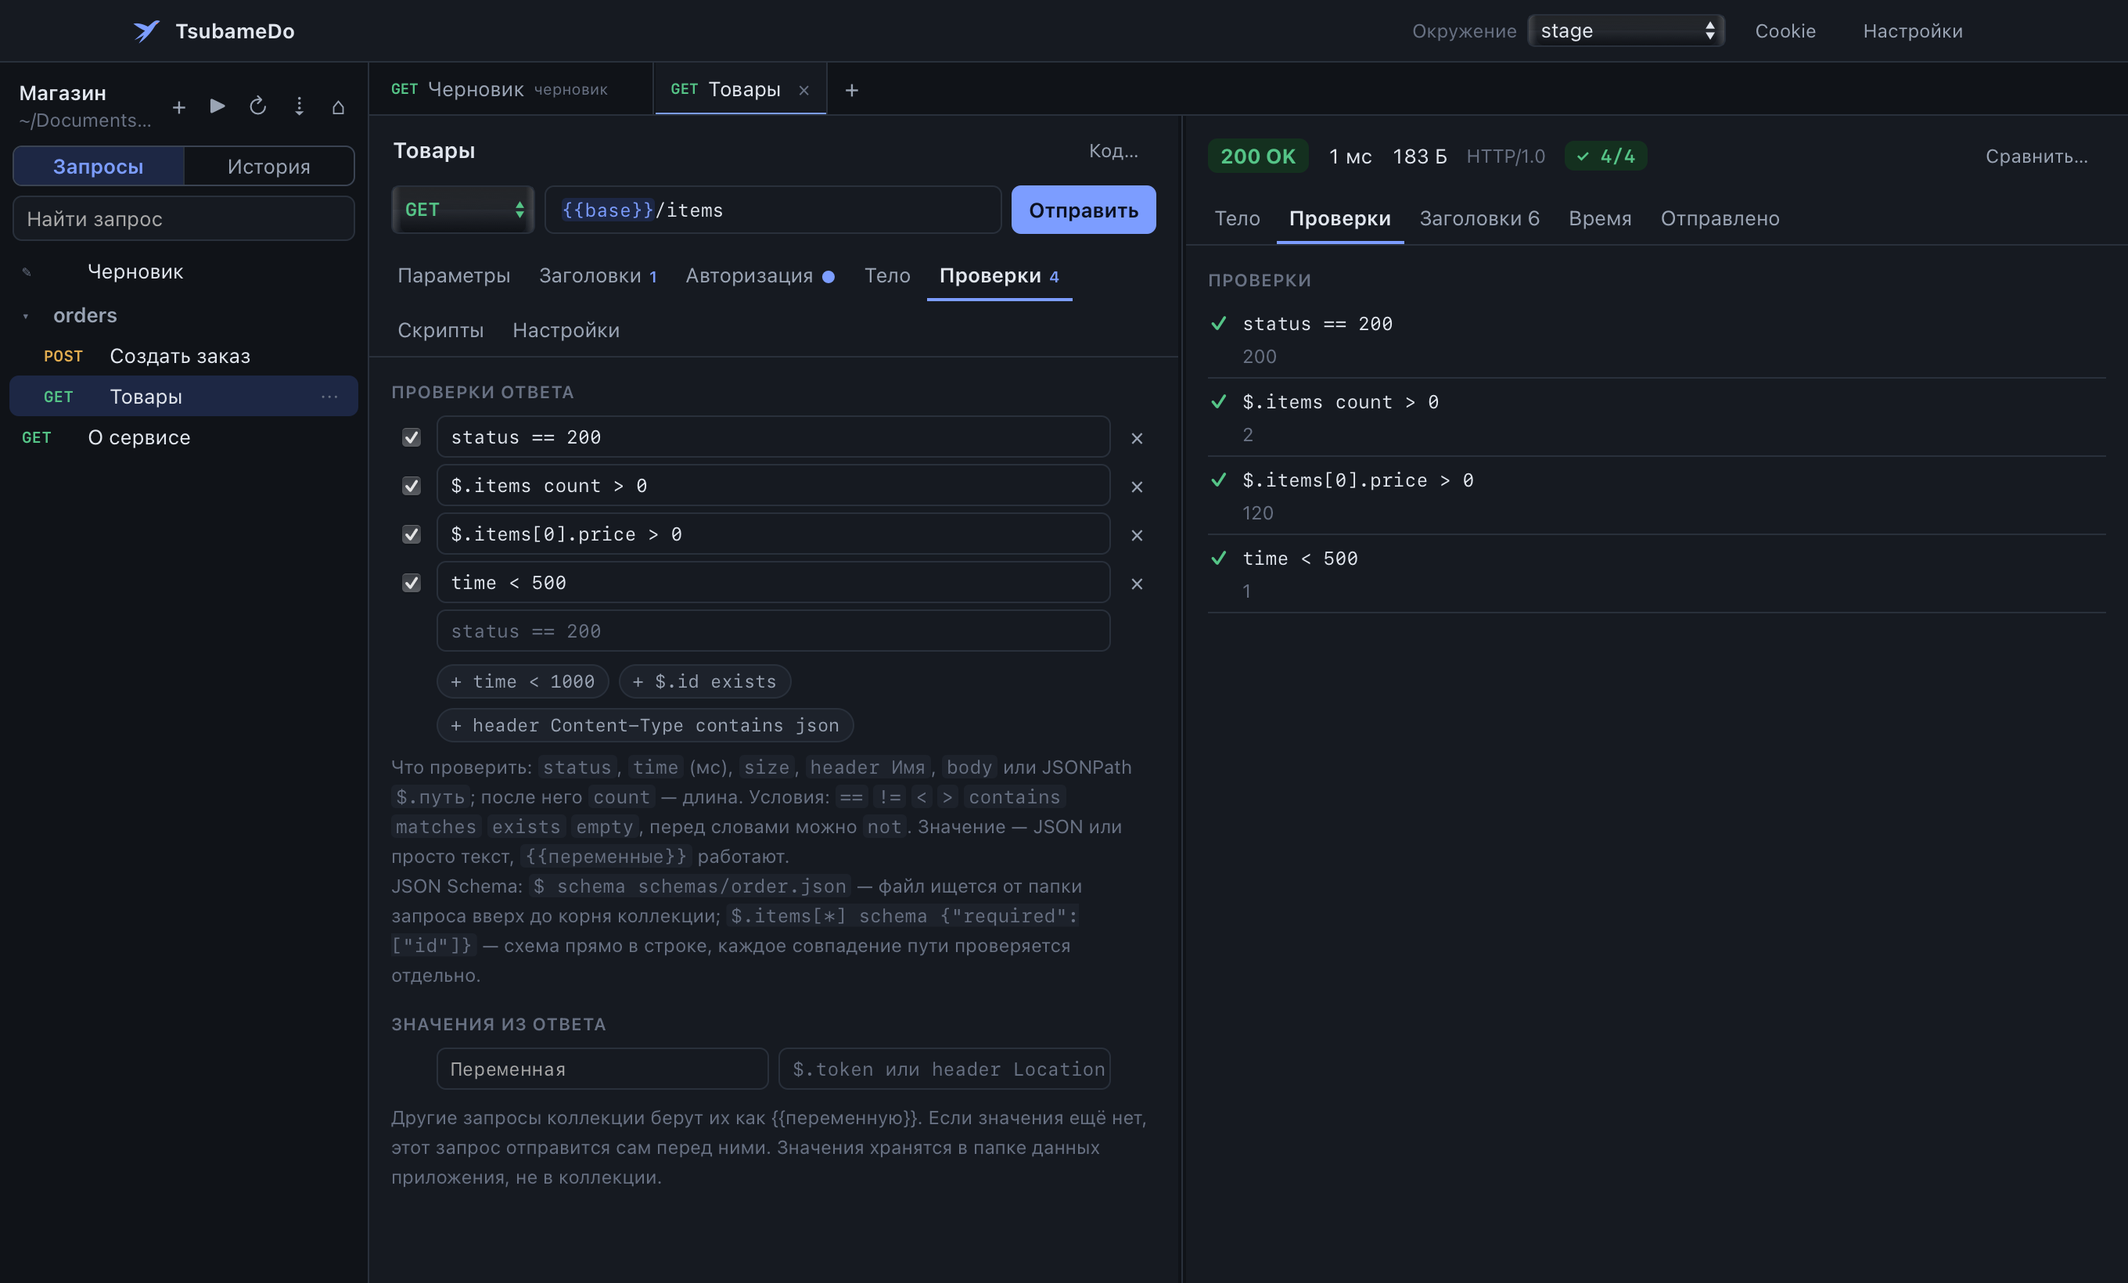
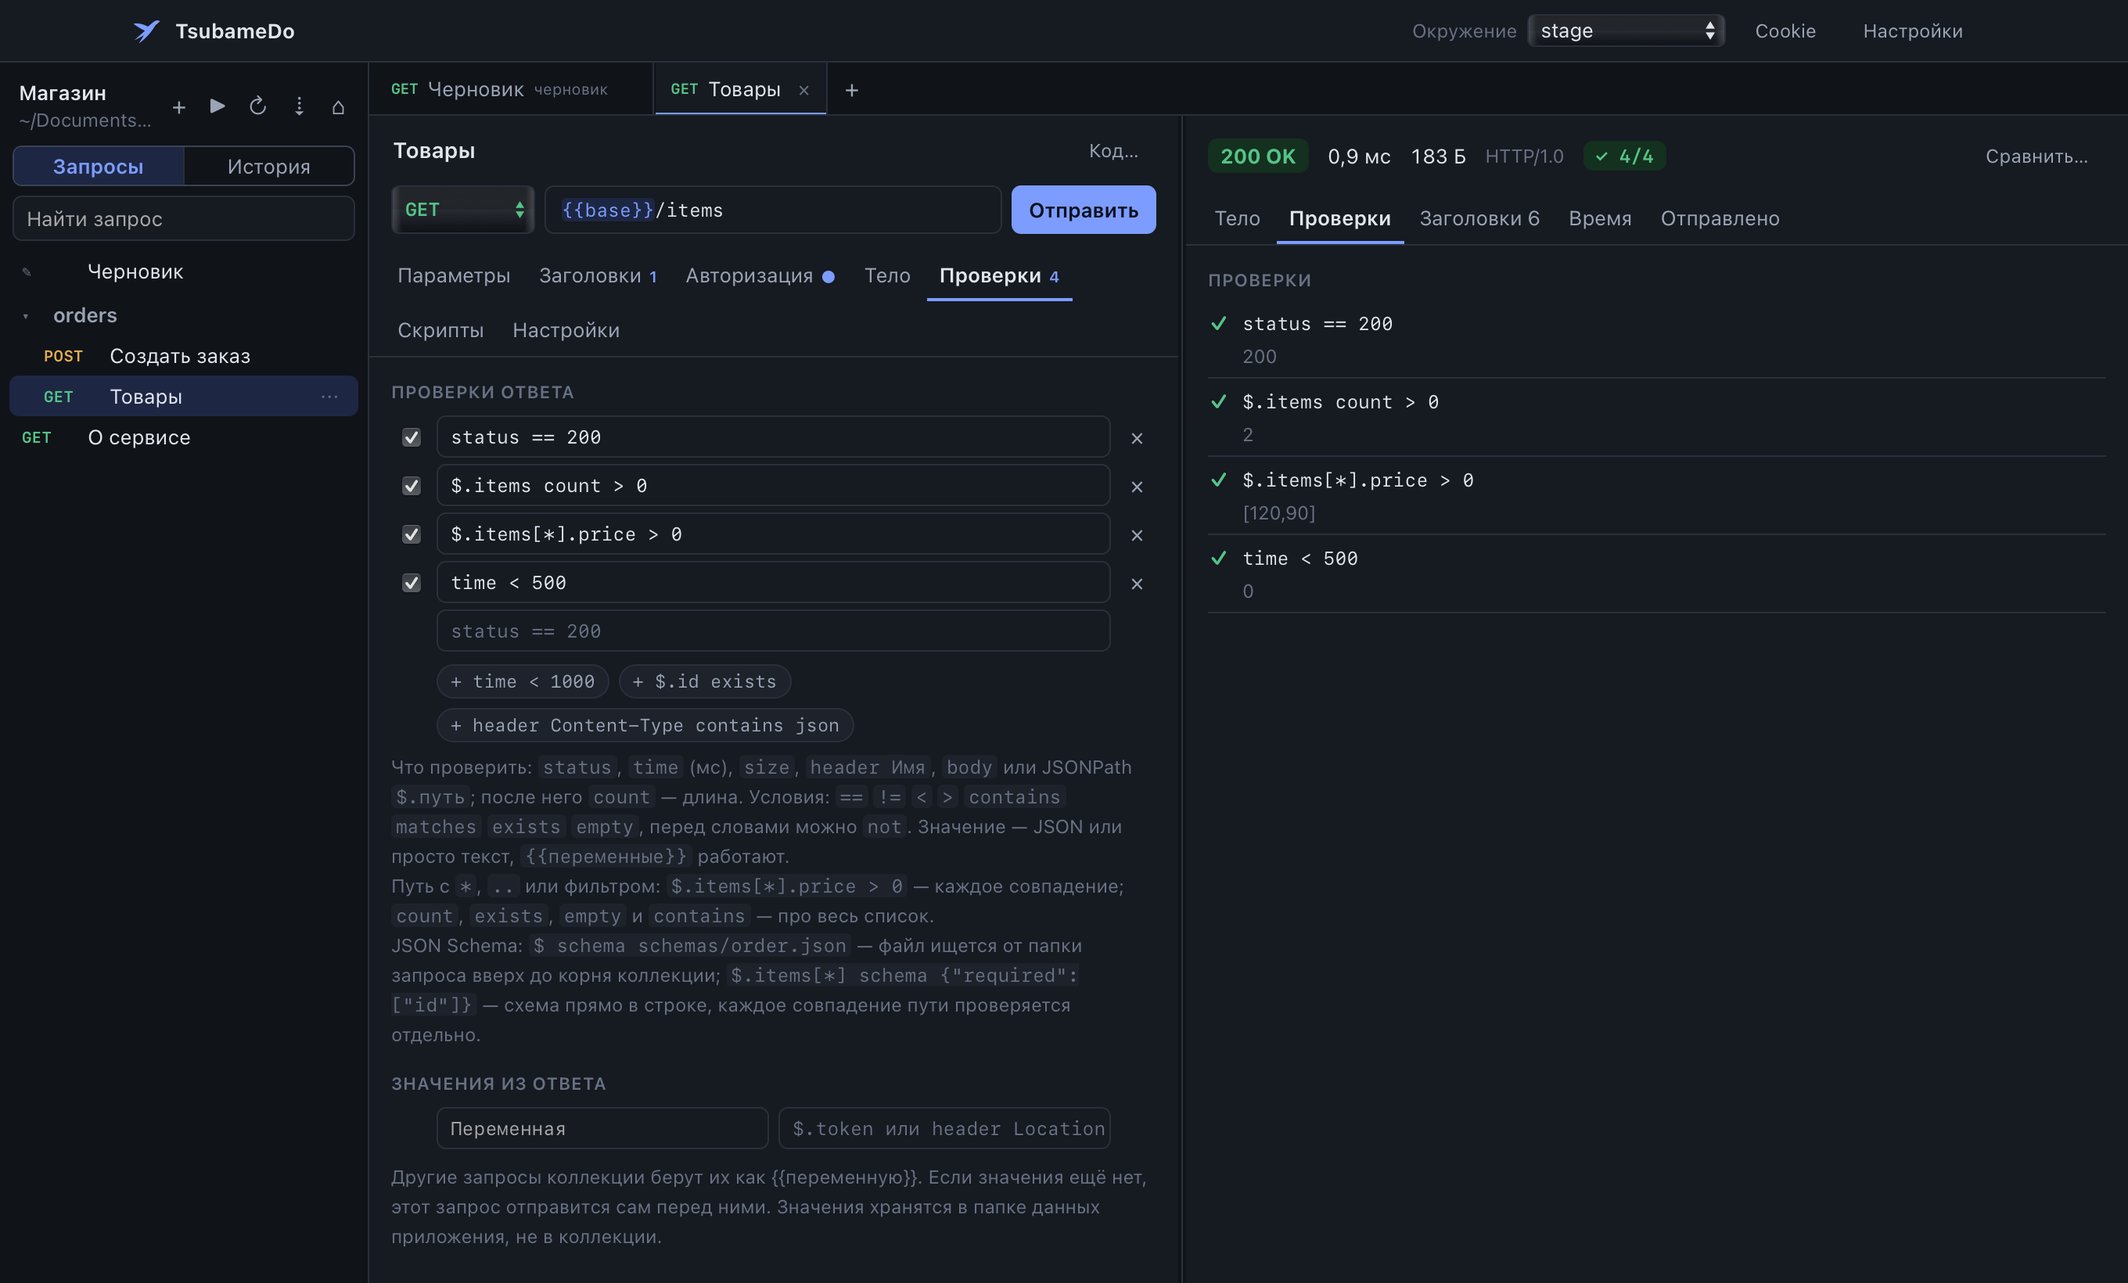
Проверки по каждому совпадению JSONPath
Путь с *, .., фильтром, срезом или несколькими именами находит список
значений. Сравнения и matches теперь проверяют каждое совпадение и
называют не подошедшие с местом ($.items[2].price: "x" не число), а не
сравнивают весь массив. count, exists, empty, contains и ==/!= со
списком смотрят на список целиком; count — число совпадений, а не
длина единственного найденного объекта. Пустой результат — провал, а
не «выполнено для всех». Значения из ответа не изменились.

В демо снова $.items[*].price > 0, снимок «Проверки» переснят.

Changed region(s): [[0.1875, 0.6841, 0.5312, 0.964], [0.6562, 0.0933, 0.7188, 0.1244]]

diff --git a/apps/desktop/src/components/ChecksEditor.tsx b/apps/desktop/src/components/ChecksEditor.tsx
@@ -72,6 +72,9 @@ export function ChecksEditor({
         после него <code>count</code> — длина. Условия: <code>==</code> <code>!=</code> <code>&lt;</code> <code>&gt;</code> <code>contains</code> <code>matches</code>{" "}
         <code>exists</code> <code>empty</code>, перед словами можно <code>not</code>. Значение — JSON или просто текст, <code>{"{{переменные}}"}</code> работают.
         <br />
+        Путь с <code>*</code>, <code>..</code> или фильтром: <code>$.items[*].price &gt; 0</code> — каждое совпадение; <code>count</code>,{" "}
+        <code>exists</code>, <code>empty</code> и <code>contains</code> — про весь список.
+        <br />
         JSON Schema: <code>$ schema schemas/order.json</code> — файл ищется от папки запроса вверх до корня коллекции;{" "}
         <code>{'$.items[*] schema {"required": ["id"]}'}</code> — схема прямо в строке, каждое совпадение пути проверяется отдельно.
       </div>

diff --git a/core/tsubamedo-core/src/checks.rs b/core/tsubamedo-core/src/checks.rs
@@ -31,6 +31,11 @@
 //! `schema` (JSON Schema, see [`crate::schema`]; each match of the path is checked); `not`
 //! before the word ones. The value is JSON (`200`, `"text"`, `true`, `null`, `[1, 2]`) or, when it
 //! is not, plain text. `{{variables}}` work anywhere in the line.
+//!
+//! A path with `*`, `..`, a filter, a slice or several names in brackets matches a list of
+//! values. `count`, `exists`, `empty`, `contains` and `==`/`!=` with a list look at the list as a
+//! whole (`count` is the number of matches); the other conditions hold for each match and fail
+//! when nothing matched: `$.items[*].price > 0` is every price.
 
 use std::io::Read;
 use std::path::Path;
@@ -55,7 +60,8 @@ enum Source {
     Size,
     Header(String),
     Body,
-    Path(JsonPath, String),
+    /// The path, as written, and whether it may match more than one value.
+    Path(JsonPath, String, bool),
 }
 
 /// Where a value is in the response.
@@ -124,7 +130,7 @@ impl Query {
             let end = path_end(text);
             let path = &text[..end];
             let parsed = JsonPath::parse(path).map_err(|e| format!("JSONPath «{path}»: {e}"))?;
-            (Source::Path(parsed, path.to_string()), &text[end..])
+            (Source::Path(parsed, path.to_string(), many(path)), &text[end..])
         } else {
             let (word, rest) = next_word(text);
             match word {
@@ -169,8 +175,11 @@ impl Query {
                 (!values.is_empty()).then(|| Value::String(values.join(", ")))
             }
             Source::Body => Some(Value::String(r.text()?.to_string())),
-            Source::Path(path, _) => {
+            Source::Path(path, _, many) => {
                 let nodes = path.query(r.json()?).all();
+                if self.count && *many {
+                    return Ok(Some(Value::from(nodes.len())));
+                }
                 match nodes.as_slice() {
                     [] => None,
                     [one] => Some((*one).clone()),
@@ -197,10 +206,38 @@ impl Query {
             Source::Size => "size".into(),
             Source::Header(name) => format!("заголовка {name}"),
             Source::Body => "тела".into(),
-            Source::Path(_, path) => path.clone(),
+            Source::Path(_, path, _) => path.clone(),
         };
         if self.count { format!("{base} count") } else { base }
     }
+}
+
+/// Whether a path may match more than one value: a wildcard, descendants, a filter, a slice or
+/// a list of selectors anywhere outside quoted names.
+fn many(path: &str) -> bool {
+    let mut quote: Option<char> = None;
+    let mut escaped = false;
+    let mut prev = ' ';
+    for c in path.chars() {
+        if let Some(q) = quote {
+            if escaped {
+                escaped = false;
+            } else if c == '\\' {
+                escaped = true;
+            } else if c == q {
+                quote = None;
+            }
+            continue;
+        }
+        match c {
+            '\'' | '"' => quote = Some(c),
+            '*' | '?' | ':' | ',' => return true,
+            '.' if prev == '.' => return true,
+            _ => {}
+        }
+        prev = c;
+    }
+    false
 }
 
 /// The end of a JSONPath: the first space outside brackets and quotes.
@@ -306,6 +343,48 @@ impl Rule {
             return Err(format!("сравнивать на больше-меньше можно только с числом, а не «{value}»"));
         }
         Ok(Rule { query, op, not, expected })
+    }
+
+    /// Whether the condition holds for each match of a path, rather than for the list of them.
+    fn each(&self) -> bool {
+        match self.op {
+            Op::Eq | Op::Ne => !self.expected.is_array(),
+            Op::Lt | Op::Le | Op::Gt | Op::Ge | Op::Matches => true,
+            Op::Contains | Op::Exists | Op::Empty | Op::Schema => false,
+        }
+    }
+
+    /// A path that may match many values: the condition for each match, or for the list of them.
+    fn check_many(&self, path: &JsonPath, text: &str, answer: &Answer) -> Result<(bool, Option<String>, Option<String>), String> {
+        let found = located(path, answer)?;
+        let list = Value::Array(found.iter().map(|(_, v)| (*v).clone()).collect());
+        let shown = Some(short(&list));
+        if !self.each() {
+            let actual = (!found.is_empty() || self.op != Op::Exists).then_some(&list);
+            return Ok(match self.check(actual) {
+                Ok(ok) => (ok, shown, None),
+                Err(e) => (false, shown, Some(e)),
+            });
+        }
+        if found.is_empty() {
+            return Err(format!("в ответе нет {text}"));
+        }
+        let wrong: Vec<String> = found
+            .iter()
+            .filter_map(|(at, value)| match self.check(Some(value)) {
+                Ok(true) => None,
+                Ok(false) => Some(format!("{}: пришло {}", crate::schema::path(at), short(value))),
+                Err(e) => Some(format!("{}: {e}", crate::schema::path(at))),
+            })
+            .collect();
+        if wrong.is_empty() {
+            return Ok((true, shown, None));
+        }
+        let mut why = wrong.iter().take(3).cloned().collect::<Vec<_>>().join("; ");
+        if wrong.len() > 3 {
+            why += &format!(" и ещё {}", wrong.len() - 3);
+        }
+        Ok((false, shown, Some(why)))
     }
 
     fn check(&self, actual: Option<&Value>) -> Result<bool, String> {
@@ -455,6 +534,14 @@ pub fn run_checks(checks: &[Check], answer: &Answer, vars: &Vars, dir: Option<&P
                     Ok(Err(why)) => failed(why),
                 };
             }
+            if let Source::Path(path, text, true) = &rule.query.source
+                && !rule.query.count
+            {
+                return match rule.check_many(path, text, answer) {
+                    Ok((ok, actual, error)) => CheckResult { check: c.text.clone(), ok, actual, error },
+                    Err(e) => failed(e),
+                };
+            }
             let actual = match rule.query.eval(answer) {
                 Ok(actual) => actual,
                 Err(e) => return failed(e),
@@ -475,19 +562,12 @@ type Located<'a> = (Vec<String>, std::borrow::Cow<'a, Value>);
 fn schema_values<'a>(query: &Query, answer: &'a Answer) -> Result<Vec<Located<'a>>, String> {
     use std::borrow::Cow;
     match &query.source {
-        Source::Path(path, text) if !query.count => {
-            let nodes = path.query_located(answer.json()?);
-            if nodes.is_empty() {
+        Source::Path(path, text, _) if !query.count => {
+            let found = located(path, answer)?;
+            if found.is_empty() {
                 return Err(format!("в ответе нет {text}"));
             }
-            Ok(nodes
-                .into_iter()
-                .map(|n| {
-                    let pointer = n.location().to_json_pointer();
-                    let at = pointer.split('/').skip(1).map(|t| t.replace("~1", "/").replace("~0", "~")).collect();
-                    (at, Cow::Borrowed(n.node()))
-                })
-                .collect())
+            Ok(found.into_iter().map(|(at, v)| (at, Cow::Borrowed(v))).collect())
         }
         Source::Body if !query.count => Ok(vec![(Vec::new(), Cow::Borrowed(answer.json()?))]),
         _ => match query.eval(answer)? {
@@ -495,6 +575,19 @@ fn schema_values<'a>(query: &Query, answer: &'a Answer) -> Result<Vec<Located<'a
             None => Err(format!("в ответе нет {}", query.describe())),
         },
     }
+}
+
+/// Every match of a path with its place, as the parts of `$.items[2].price`.
+fn located<'a>(path: &JsonPath, answer: &'a Answer) -> Result<Vec<(Vec<String>, &'a Value)>, String> {
+    Ok(path
+        .query_located(answer.json()?)
+        .into_iter()
+        .map(|n| {
+            let pointer = n.location().to_json_pointer();
+            let at = pointer.split('/').skip(1).map(|t| t.replace("~1", "/").replace("~0", "~")).collect();
+            (at, n.node())
+        })
+        .collect())
 }
 
 /// Reads the enabled captures: strings as they are, other JSON as JSON text.
@@ -607,6 +700,63 @@ mod tests {
         let got = results(&html, &["$.a exists", "body contains html"], &Vars::new());
         assert!(got[0].2.as_deref().unwrap().starts_with("ответ не JSON"));
         assert!(got[1].0);
+    }
+
+    #[test]
+    fn paths_with_many_matches() {
+        let r = response(200, r#"{"items":[{"id":1,"price":10,"name":"a"},{"id":2,"price":25,"name":"b"},{"id":3,"price":"x","name":"c"}],"none":[]}"#);
+        let passing = [
+            "$.items[0:2].price > 0",
+            "$.items[*].id >= 1",
+            "$..id < 4",
+            "$.items[*].name matches ^[a-c]$",
+            "$.items[*].name != z",
+            "$.items[?@.id == 2].price == 25",
+            "$.items[*].price contains 25",
+            "$.items[*].price not contains 7",
+            "$.items[*].id == [1, 2, 3]",
+            "$.items[*].id count == 3",
+            "$.items[?@.id > 1] count == 2",
+            "$.items[?@.id == 2] count == 1",
+            "$.items[?@.id > 9] count == 0",
+            "$.items[?@.id > 9] empty",
+            "$.items[?@.id > 9] not exists",
+            "$.items[*] exists",
+            "$.items['a,b'] not exists",
+            "$['it*ms'] not exists",
+        ];
+        for (line, (ok, actual, error)) in passing.iter().zip(results(&r, &passing, &Vars::new())) {
+            assert!(ok, "{line}: {actual:?} {error:?}");
+        }
+        let got = results(&r, &["$.items[*].price > 0", "$.items[*].id > 1", "$.items[?@.id > 9].price > 0", "$.none[*] == 1", "$.items[*].id contains 7"], &Vars::new());
+        assert_eq!(got[0].2.as_deref(), Some("$.items[2].price: \"x\" не число"));
+        assert_eq!(got[0].1.as_deref(), Some("[10,25,\"x\"]"));
+        assert_eq!(got[1].2.as_deref(), Some("$.items[0].id: пришло 1"));
+        assert_eq!(got[2].2.as_deref(), Some("в ответе нет $.items[?@.id > 9].price"));
+        assert_eq!(got[3].2.as_deref(), Some("в ответе нет $.none[*]"));
+        assert_eq!(got[4], (false, Some("[1,2,3]".into()), None));
+        assert!(got.iter().all(|g| !g.0));
+
+        for (path, expected) in [
+            ("$.a.b[0]", false),
+            ("$['a*b'][\"c,d\"]", false),
+            ("$.a[-1]", false),
+            ("$.a[*]", true),
+            ("$.*", true),
+            ("$..a", true),
+            ("$.a[1:]", true),
+            ("$.a[0,1]", true),
+            ("$.a[?@.b == 'x']", true),
+        ] {
+            assert_eq!(many(path), expected, "{path}");
+        }
+
+        let many: String = (0..6).map(|i| format!("{{\"n\":{i}}}")).collect::<Vec<_>>().join(",");
+        let r = response(200, &format!("[{many}]"));
+        let got = results(&r, &["$[*].n > 1"], &Vars::new());
+        assert_eq!(got[0].2.as_deref(), Some("$[0].n: пришло 0; $[1].n: пришло 1"));
+        let got = results(&r, &["$[*].n > 9"], &Vars::new());
+        assert_eq!(got[0].2.as_deref(), Some("$[0].n: пришло 0; $[1].n: пришло 1; $[2].n: пришло 2 и ещё 3"));
     }
 
     #[test]

diff --git a/docs/PLAN.md b/docs/PLAN.md
@@ -130,6 +130,9 @@ Postman. У нас — точечное сохранение файлов без
       `>`, `contains`, `matches`, `exists`, `empty` и `not`. В приложении — вкладка «Проверки»
       у запроса (строка проверяется ядром прямо при вводе) и у ответа (что пришло); в CLI —
       ✓/✗ под ответом и код выхода. Строки, которые не менялись, сохраняют своё оформление.
+- [x] Пути с несколькими совпадениями (`[*]`, `..`, фильтры, срезы): сравнения и `matches`
+      проверяют каждое совпадение и называют не подошедшие с местом, `count`/`exists`/`empty`/
+      `contains` смотрят на список, `count` — число совпадений. Пустой результат — провал.
 - [x] JSON Schema в проверках: `$ schema schemas/order.json`, `$.items[*] schema {…}` (boon,
       draft 4 — 2020-12, без сети); нарушения по-русски с путём. Импорт OpenAPI пишет схемы
       ответов в `schemas/` и добавляет такую проверку.

diff --git a/README.md b/README.md
@@ -180,6 +180,18 @@ $.id == {{order_id}}
 $.error not exists
 ```
 
+Путь с `*`, `..`, фильтром, срезом или несколькими именами в скобках находит список значений.
+`count`, `exists`, `empty`, `contains` и `==`/`!=` со списком смотрят на весь список (`count` —
+число совпадений), остальные условия должны выполняться для каждого совпадения:
+
+```text
+$.items[*].price > 0                  # каждая цена; в ответе — какая не подошла и где
+$.items[*].id contains 7              # есть товар с id 7
+$.items[?@.stock == 0] count == 0     # ни одного без остатка
+```
+
+Если путь ничего не нашёл, такая проверка не проходит, а не считается выполненной.
+
 JSON Schema — условием `schema`: файлом или прямо в строке.
 
 ```text
